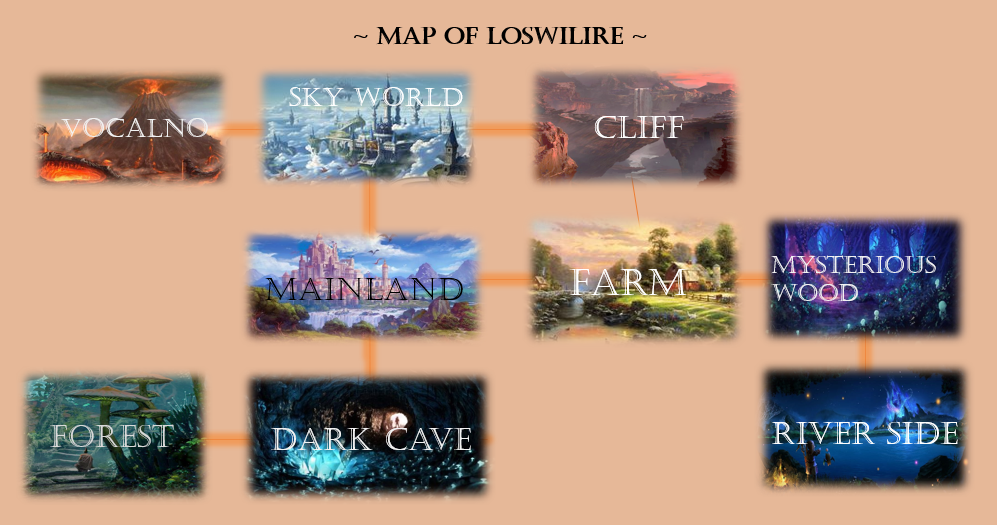
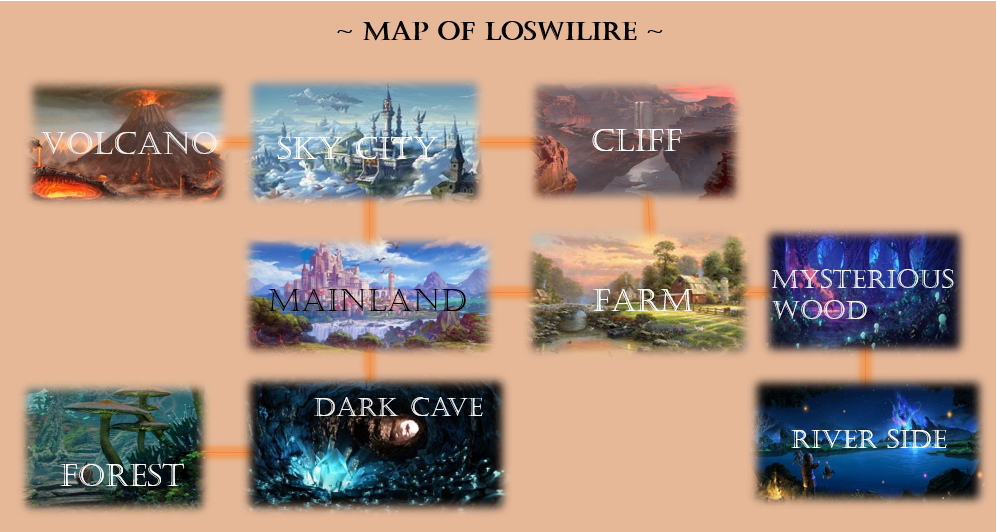
rerange code

diff --git a/cs4076_pro/ZorkUL.cpp b/cs4076_pro/ZorkUL.cpp
@@ -24,56 +24,56 @@ ZorkUL::ZorkUL() {
 }
 
 void ZorkUL::createRooms()  {
-    Room *a, *b, *c, *d, *e, *f, *g, *h, *i, *nr;           //--add a new room called nr
+    Room *mainland, *farm, *mysWood, *river, *cave, *forest, *volcano, *sky, *cliff;
 
 
-    a = new Room("a", ":/resources/img/mainland.jpg");
-        a->addItem(new Item("x", 1, 11));
-        a->addItem(new Item("y", 2, 22));
+    mainland = new Room("mainland", ":/resources/img/mainland.jpg");
+        mainland->addItem(new Item("x", 1, 11));
+        mainland->addItem(new Item("y", 2, 22));
 
 
-    b = new Room("b",":/resources/img/cliff.jpg");
-        b->addItem(new Item("xx", 3, 33));
-        b->addItem(new Item("yy", 4, 44));
+   farm = new Room("farm",":/resources/img/farm.jpg");
+       farm->addItem(new Item("xx", 3, 33));
+       farm->addItem(new Item("yy", 4, 44));
 
-    c = new Room("c",":/resources/img/dark_cave.jpg");
+    mysWood = new Room("mysWood",":/resources/img/mysterious_wood.jpg");
 
-    d = new Room("d",":/resources/img/mainland.jpg");
-    e = new Room("e",":/resources/img/farm.jpg");
-    f = new Room("f",":/resources/img/mysterious_wood.jpg");
-    g = new Room("g",":/resources/img/sky_city.jpg");
-    h = new Room("h",":/resources/img/riverside.jpg");
-    i = new Room("i",":/resources/img/volcano.jpg");
+    river = new Room("river",":/resources/img/riverside.jpg");
+    cave = new Room("cave",":/resources/img/dark_cave.jpg");
+    forest = new Room("forest",":/resources/img/forest.jpg");
+    volcano = new Room("volcano",":/resources/img/volcano.jpg");
+    sky = new Room("sky",":/resources/img/sky_city.jpg");
+    cliff = new Room("cliff",":/resources/img/cliff.jpg");
 
-    nr = new Room("nr",":/resources/img/mainland.jpg");                                     //--create a newRoom object
+   //nr = new Room("nr",":/resources/img/mainland.jpg");                                     //--create a newRoom object
 
    //--add all the room to pointer arrays
-    rooms[0] = a;
-    rooms[1] = b;
-    rooms[2] = c;
-    rooms[3] = d;
-    rooms[4] = e;
-    rooms[5] = f;
-    rooms[6] = g;
-    rooms[7] = h;
-    rooms[8] = i;
-    rooms[9] = nr;
+    rooms[0] = mainland;
+    rooms[1] = farm;
+    rooms[2] = mysWood;
+    rooms[3] = river;
+    rooms[4] = cave;
+    rooms[5] = forest ;
+    rooms[6] = volcano;
+    rooms[7] = sky;
+    rooms[8] = cliff;
+
 
 
 
 //             (N, E, S, W)
-	a->setExits(f, b, d, c);
-	b->setExits(NULL, NULL, NULL, a);
-	c->setExits(NULL, a, NULL, NULL);
-	d->setExits(a, e, NULL, i);
-	e->setExits(NULL, NULL, NULL, d);
-	f->setExits(NULL, g, a, h);
-	g->setExits(NULL, NULL, NULL, f);
-	h->setExits(NULL, f, NULL, NULL);
-     	i->setExits(NULL, d, NULL, NULL);
-    	nr->setExits(d, NULL, NULL, NULL);                    //--setExits nr
+    mainland->setExits(sky, farm, cave, NULL);
+    farm->setExits(cliff, mysWood, NULL, mainland);
+    mysWood->setExits(NULL, NULL, river, farm);
+    river->setExits(mysWood, NULL, NULL, NULL);
+    cave->setExits(mainland, NULL, NULL, forest);
+    forest->setExits(NULL,cave, NULL, NULL);
+    volcano->setExits(NULL, sky, NULL, NULL);
+    sky->setExits(NULL, cliff, mainland, volcano);
+    cliff->setExits(NULL, NULL, farm, sky);
 
-        currentRoom = a;
+
+        currentRoom = mainland;
 }
 
 
@@ -134,16 +134,18 @@ bool ZorkUL::processCommand(Command command) {
 
 	else if (commandWord.compare("map") == 0)
 		{
-        cout << "[h] --- [f] --- [g]" << endl;
-        cout << "         |         " << endl;
-        cout << "         |         " << endl;
-        cout << "[c] --- [a] --- [b]" << endl;
-		cout << "         |         " << endl;
-		cout << "         |         " << endl;
-		cout << "[i] --- [d] --- [e]" << endl;
-        cout << "         |         " << endl;            //-add nr in the map
-        cout << "         |         " << endl;            //^
-        cout << "        [nr]       " << endl;            //^
+        cout << "[Volcano] ---[Sky World] ----- [Cliff]                       " << endl;
+        cout << "                 |                |                          " << endl;
+        cout << "                 |                |                          " << endl;
+        cout << "             [Main Land] ----- [farm] --- [Mysterious wood]  " << endl;
+        cout << "                 |                             |             " << endl;
+        cout << "                 |                             |             " << endl;
+        cout << "[Forest] --- [Dark Cave] ----------------- [River Side]      " << endl;
+
+
+        //cout << "         |         " << endl;            //-add nr in the map
+        //cout << "         |         " << endl;            //^
+        //cout << "        [nr]       " << endl;            //^
 
 		}
 

diff --git a/cs4076_pro/mainwindow.cpp b/cs4076_pro/mainwindow.cpp
@@ -87,6 +87,9 @@ void MainWindow::on_northBtn_clicked()
     QString s = toQstr(zork ->go("north"));
     ui -> output ->setText(s);
 
+    QPixmap pix1(toQstr(zork ->getPic()));
+    ui -> imgLb -> setPixmap(pix1);
+
 }
 
 
@@ -116,7 +119,7 @@ void MainWindow::on_west_clicked()
 
 void MainWindow::on_southBtn_clicked()
 {
-    QString s = toQstr(zork ->go("north"));
+    QString s = toQstr(zork ->go("south"));
     ui -> output ->setText(s);
 
     QPixmap pix1(toQstr(zork ->getPic()));
